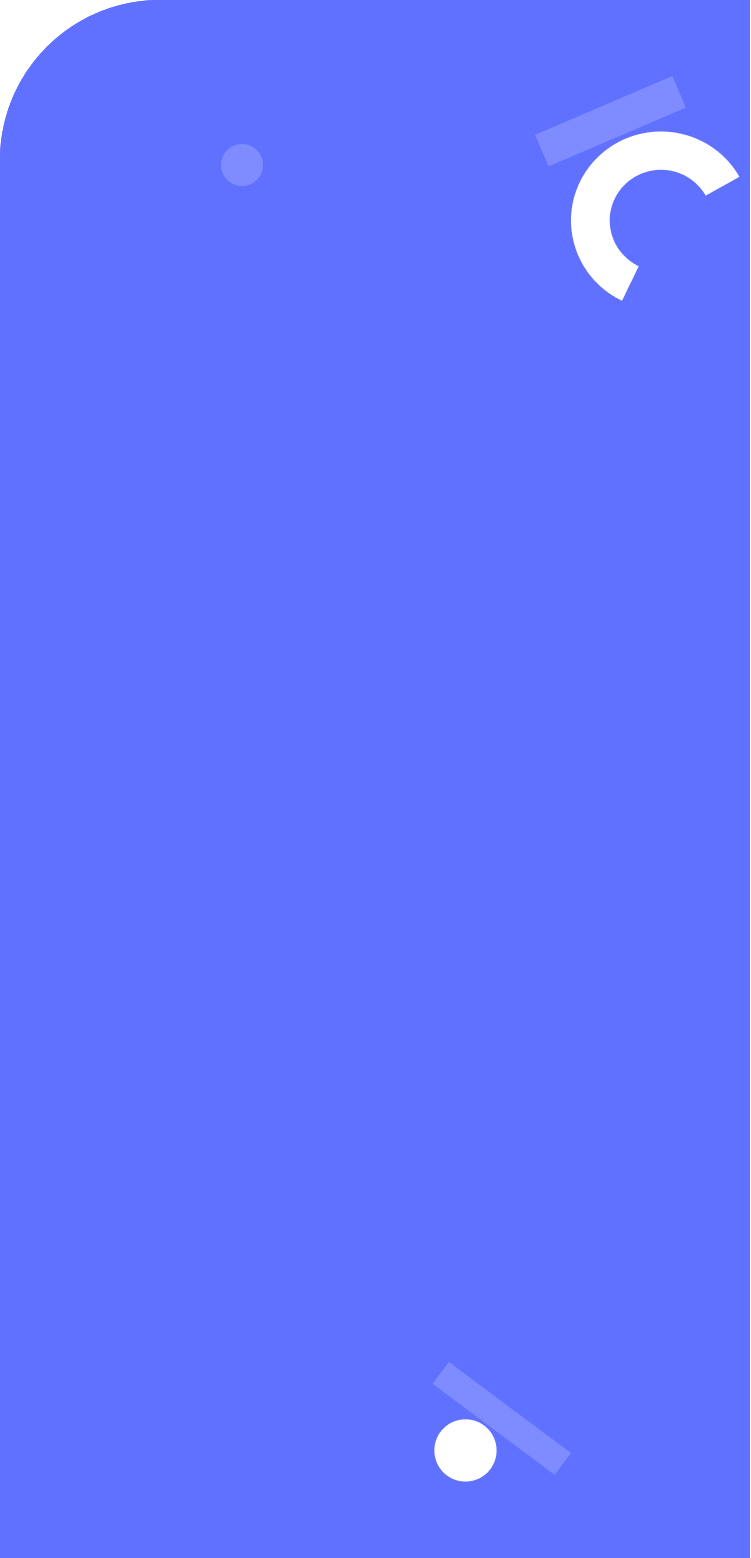
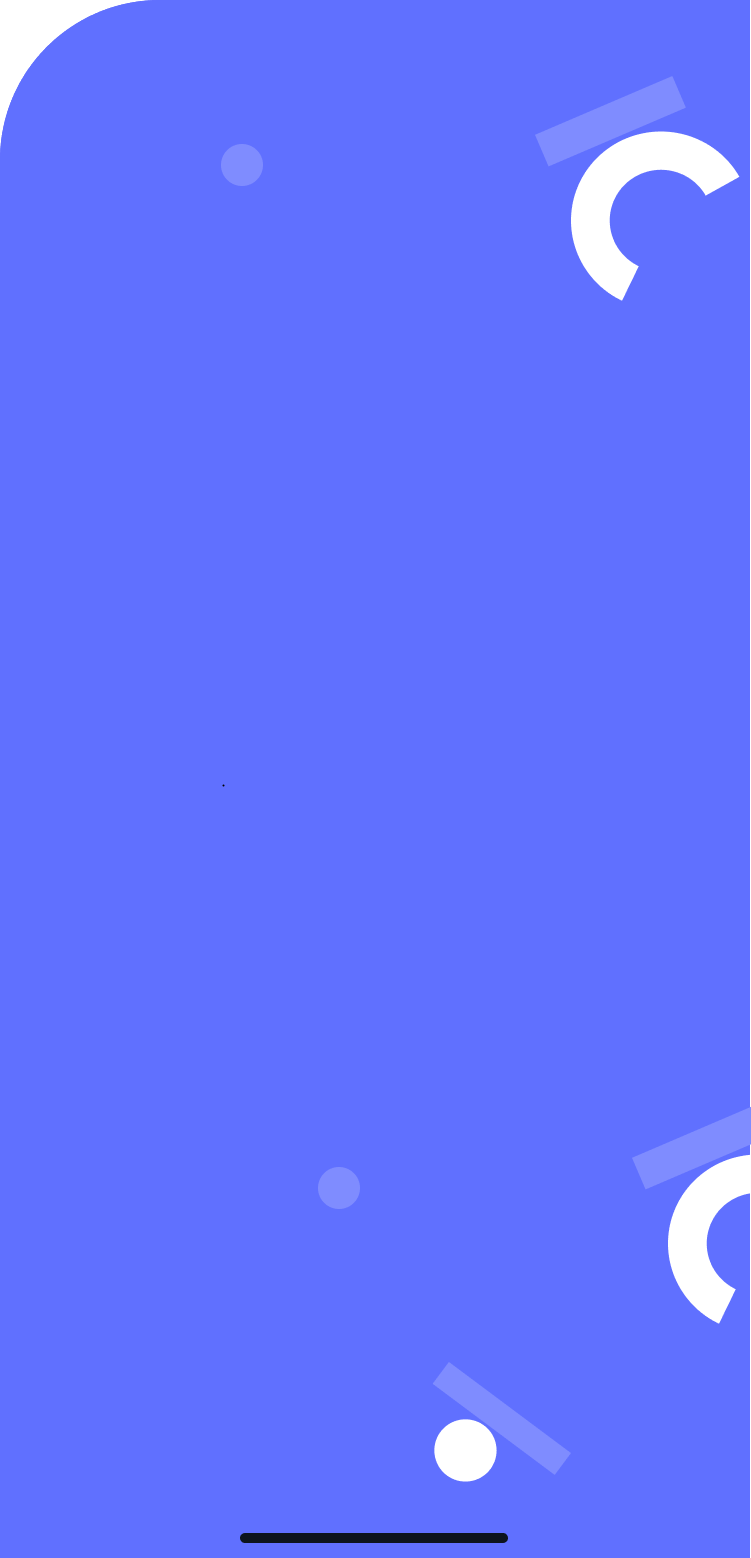
style the contact section and form
+ It was added a background with the design images
+ It was given similar styles than those use in the figma's template

Changed region(s): [[0.8269, 0.7086, 1.0, 0.8626], [0.3063, 0.9859, 0.6738, 1.0], [0.4288, 0.7394, 0.49, 0.801]]

diff --git a/css/contact.css b/css/contact.css
@@ -1,0 +1,67 @@
+.contact-info {
+  margin-top: 10.3rem;
+  margin-bottom: 5rem;
+  padding: 2.4rem;
+  position: relative;
+}
+
+.contact-info::before {
+  content: "";
+  display: block;
+  height: 100rem;
+  width: 112%;
+  position: absolute;
+  right: -8%;
+  top: -3%;
+  z-index: -1;
+  margin: 0 1rem;
+  background-image: url("../images/form.png");
+  background-size: cover;
+  background-repeat: no-repeat;
+}
+
+.contact-info > * {
+  text-align: center;
+  color: white;
+}
+
+.contact-info h1 {
+  font-weight: 700;
+  font-size: 4rem;
+  line-height: 1.3;
+  padding-top: 1rem;
+  padding-bottom: 1rem;
+  margin-bottom: 1.2rem;
+  margin-top: 11.2rem;
+}
+
+.contact-info p {
+  font-size: 2rem;
+  line-height: 1.4;
+}
+
+/* FORM */
+.contact-form {
+  display: flex;
+  flex-direction: column;
+}
+
+.contact-form * {
+  margin-bottom: 2rem;
+  border-radius: 0.8rem;
+}
+
+.contact-form input[type="text"] {
+  flex-basis: 4.8rem;
+}
+
+.contact-form textarea {
+  flex: 1;
+  min-height: 17rem;
+}
+
+.contact-form .btn {
+  border: none;
+  align-self: flex-start;
+  padding: 1.2rem 1.6rem;
+}

diff --git a/index.html b/index.html
@@ -300,6 +300,19 @@
                 </ul>
             </section>
 
+            <section class="container">
+                <div class="contact-info">
+                    <h1>Contact Me</h1>
+                    <p>If you have an application you are interested in developing, a feature that you need built or a project that needs coding. I’d love to help with it </p>
+                </div>
+
+                <form method="" class="contact-form" action="">
+                    <input type="text" name="" value="" placeholder="Yeremias" />
+                    <input type="text" name="" value="" placeholder="natajayanj14@gmail.com" />
+                    <textarea name="" id="" rows="" cols="" tabindex="" placeholder="Write your message here"></textarea>
+                    <input class="btn" type="submit" name="" value="Get in Touch" />
+                </form>
+            </section>
         </main>
     </body>
 </html>

diff --git a/css/globals.css b/css/globals.css
@@ -51,6 +51,7 @@ a {
 /* UTILITIES */
 
 .btn {
+  background-color: #fff;
   font-size: 1.7rem;
   line-height: 2.4;
   padding: 1.2rem;

diff --git a/css/index.css b/css/index.css
@@ -2,3 +2,4 @@
 @import "styles.css";
 @import "works.css";
 @import "categories.css";
+@import "contact.css";
